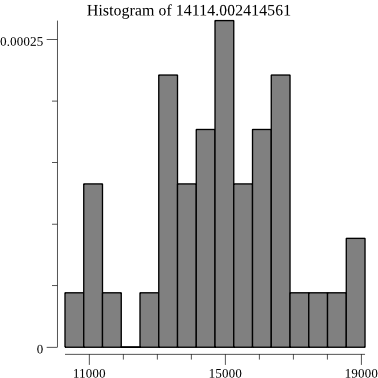
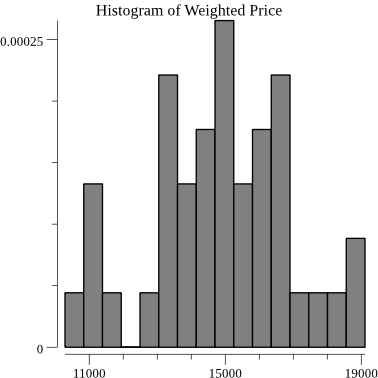
correct title for graphs

Changed region(s): [[0.2328, 0.0, 0.7857, 0.0582]]

diff --git a/csvPlot.go b/csvPlot.go
@@ -34,7 +34,7 @@ func CsvPlot() {
 		log.Fatal(err)
 	}
 
-	//skip the header
+	titles := records[0:1]
 	records = records[1:]
 
 	// we iterate over all the records
@@ -68,7 +68,7 @@ func CsvPlot() {
 		if err != nil {
 			log.Fatal(err)
 		}
-		p.Title.Text = fmt.Sprintf("Histogram of %s", records[0][c])
+		p.Title.Text = fmt.Sprintf("Histogram of %s", titles[0][c])
 
 		// create a new normalized histogram
 		// and add it to the plot
